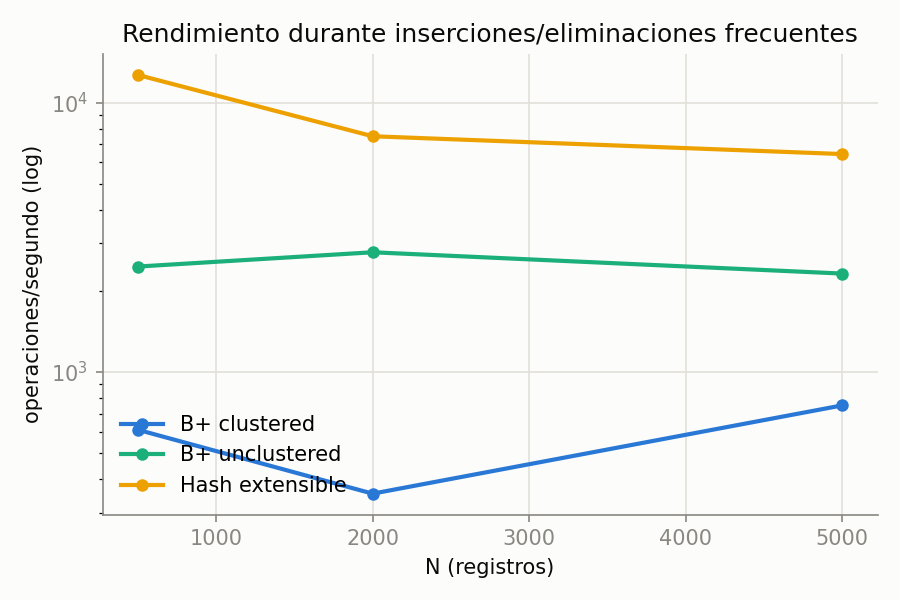
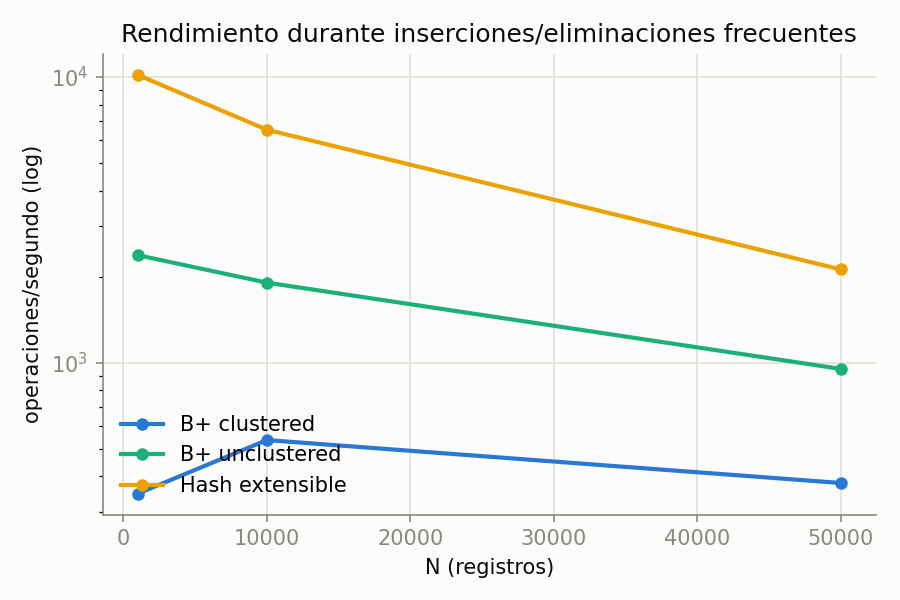
docs(benchmark): subir escala a 1k/10k/50k y actualizar resultados

diff --git a/benchmark/indices/index_benchmark.py b/benchmark/indices/index_benchmark.py
@@ -26,15 +26,13 @@ SAMPLE_SIZE = 30  # claves muestreadas para busqueda exacta / puntos de rango
 
 # Tamaños de N configurables por linea de comandos para pruebas rapidas,
 
-# El clustered escala ~O(N^2) con este SequentialFile: la pagina de
-# overflow tiene capacidad fija (no crece con N), asi que dispara un
-# reorganize() cada ~250 inserts SIEMPRE, y cada reorganize (mas el
-# reindex completo que hace BPlusTreeClustered para seguirlo) cuesta
-# O(N_actual). N=10_000 ya tarda minutos y N=100_000 tardaria horas 
-#  Por eso el default se mantiene chico; para numeros mas grandes correr 
-# a mano:
-# python -m benchmark.indices.index_benchmark 10000
-SIZES = [int(a) for a in sys.argv[1:]] or [500, 2_000, 5_000]
+# El SequentialFile escalaba ~O(N^2) (pagina de overflow de tamano fijo,
+# reorganize a intervalo constante) -- ya se arreglo (ver README, seccion
+# "Antes/despues"), asi que estos tamanos son factibles de correr en
+# minutos, no horas. N=50_000 tarda unos 5-8 minutos en total (la mayor
+# parte en construir el clustered). Para una corrida rapida de prueba:
+# python -m benchmark.indices.index_benchmark 500 2000
+SIZES = [int(a) for a in sys.argv[1:]] or [1_000, 10_000, 50_000]
 
 HASH_FILE_HEADER_SIZE = 16
 HASH_DEFAULT_BUCKET_SIZE = 16

diff --git a/benchmark/indices/README.md b/benchmark/indices/README.md
@@ -9,8 +9,8 @@ adicional y comportamiento bajo inserciones/eliminaciones frecuentes.
 **Cómo reproducirlo** (desde la raíz del repo):
 
 ```bash
-python -m benchmark.indices.index_benchmark          # tamaños por defecto: 500, 2000, 5000
-python -m benchmark.indices.index_benchmark 1000 3000 # tamaños custom
+python -m benchmark.indices.index_benchmark          # tamaños por defecto: 1000, 10000, 50000
+python -m benchmark.indices.index_benchmark 500 2000  # tamaños custom (corrida rapida)
 python -m benchmark.indices.plot_index_benchmark      # regenera las graficas desde el JSON
 ```
 
@@ -25,37 +25,47 @@ pide el enunciado.
 
 ### Construcción y espacio adicional
 
-| índice          |     N | construcción (ms) | ms/insert | datos (KB) | índice (KB) |
-| --------------- | ----: | ----------------: | --------: | ---------: | ----------: |
-| B+ clustered    |   500 |             598.7 |     1.198 |       12.0 |        20.0 |
-| B+ unclustered  |   500 |             175.4 |     0.351 |       20.0 |        20.0 |
-| Hash extensible |   500 |              41.7 |     0.083 |       20.0 |   **400.0** |
-| B+ clustered    | 2,000 |           3,083.4 |     1.542 |       40.0 |        68.0 |
-| B+ unclustered  | 2,000 |             807.5 |     0.404 |       56.0 |        68.0 |
-| Hash extensible | 2,000 |             196.3 |     0.098 |       56.0 | **1,440.0** |
-| B+ clustered    | 5,000 |           9,250.6 |     1.850 |       88.0 |       184.0 |
-| B+ unclustered  | 5,000 |           2,231.2 |     0.446 |      128.0 |       136.0 |
-| Hash extensible | 5,000 |             571.2 |     0.114 |      128.0 | **3,680.0** |
+| índice          |      N | construcción (ms) | ms/insert | datos (KB) | índice (KB) |
+| --------------- | -----: | -----------------: | --------: | ---------: | ----------: |
+| B+ clustered    |  1,000 |            1,503.4 |     1.503 |       24.0 |        36.0 |
+| B+ unclustered  |  1,000 |              408.7 |     0.409 |       32.0 |        36.0 |
+| Hash extensible |  1,000 |               87.8 |     0.088 |       32.0 |   **752.0** |
+| B+ clustered    | 10,000 |           19,500.7 |     1.950 |      172.0 |       372.0 |
+| B+ unclustered  | 10,000 |            4,556.9 |     0.456 |      252.0 |       276.0 |
+| Hash extensible | 10,000 |            1,451.4 |     0.145 |      252.0 | **7,456.0** |
+| B+ clustered    | 50,000 |           94,118.9 |     1.882 |      840.0 |     1,552.0 |
+| B+ unclustered  | 50,000 |           48,500.3 |     0.970 |    1,232.0 |     1,520.0 |
+| Hash extensible | 50,000 |           25,328.3 |     0.507 |    1,232.0 | **35,712.0** |
 
 > Números post-fix del `SequentialFile` (ver sección "Antes/después" más
 > abajo) — el clustered pasó de ~O(N²) a O(N) real en construcción/inserción.
+> Tamaños subidos de 500/2,000/5,000 a 1,000/10,000/50,000 una vez arreglado
+> el O(N²): a esta escala se nota mucho mejor la curva logarítmica del B+
+> frente al O(1) del hash (ver "Tiempo de consulta" abajo).
 
 ![Tiempo de construcción](construccion_ms.png)
 ![Espacio adicional](espacio_indice_kb.png)
 
 ### Tiempo de consulta
 
-| índice          |     N | µs/exacta |     µs/rango | ms/orden completo |
-| --------------- | ----: | --------: | -----------: | ----------------: |
-| B+ clustered    |   500 |      15.8 |         82.9 |              0.61 |
-| B+ unclustered  |   500 |     119.4 |        113.9 |              0.86 |
-| Hash extensible |   500 |      41.7 |  **1,506.2** |              1.46 |
-| B+ clustered    | 2,000 |      24.4 |        133.4 |              3.90 |
-| B+ unclustered  | 2,000 |      73.2 |         96.1 |              2.70 |
-| Hash extensible | 2,000 |      61.3 |  **6,011.0** |              6.65 |
-| B+ clustered    | 5,000 |      26.4 |        172.8 |              9.31 |
-| B+ unclustered  | 5,000 |     142.2 |        204.8 |              7.59 |
-| Hash extensible | 5,000 |      57.3 | **17,040.7** |             18.68 |
+| índice          |      N | µs/exacta |      µs/rango | ms/orden completo |
+| --------------- | -----: | --------: | ------------: | -----------------: |
+| B+ clustered    |  1,000 |      18.8 |         123.3 |               1.65 |
+| B+ unclustered  |  1,000 |     106.0 |          84.0 |               1.44 |
+| Hash extensible |  1,000 |      56.0 |   **3,312.2** |               3.72 |
+| B+ clustered    | 10,000 |      31.6 |         268.9 |              18.07 |
+| B+ unclustered  | 10,000 |     121.0 |         246.1 |              18.48 |
+| Hash extensible | 10,000 |      49.0 |  **31,496.8** |              34.37 |
+| B+ clustered    | 50,000 |      36.6 |         980.7 |             115.28 |
+| B+ unclustered  | 50,000 |     147.7 |       1,294.6 |             141.71 |
+| Hash extensible | 50,000 |      71.1 | **234,549.8** |             289.96 |
+
+Punto clave: aunque el B+ crece con N (log N) y el hash en teoría se
+mantiene O(1), a N=50,000 el hash (71.1µs) **sigue perdiendo** contra el
+clustered (36.6µs) en búsqueda exacta — ver la explicación en "Tabla
+resumen" y "Verificación de complejidad" más abajo (el hash tiene un costo
+fijo de 5 páginas por operación; el B+ con este fanout no llega a
+necesitar tantas ni siquiera a N=50,000).
 
 ![Búsqueda exacta](busqueda_exacta_us.png)
 ![Búsqueda por rango](busqueda_rango_us.png)
@@ -63,17 +73,17 @@ pide el enunciado.
 
 ### Rendimiento con inserciones/eliminaciones frecuentes (churn)
 
-| índice          |     N | churn ops |  ops/seg | µs/exacta post-churn |
-| --------------- | ----: | --------: | -------: | -------------------: |
-| B+ clustered    |   500 |       200 |    609.5 |                 20.0 |
-| B+ unclustered  |   500 |       200 |  2,461.8 |                 82.2 |
-| Hash extensible |   500 |       200 | 12,678.3 |                 42.0 |
-| B+ clustered    | 2,000 |       400 |    352.9 |                 25.3 |
-| B+ unclustered  | 2,000 |       400 |  2,781.7 |                101.3 |
-| Hash extensible | 2,000 |       400 |  7,503.6 |                 52.3 |
-| B+ clustered    | 5,000 |     1,000 |    750.9 |                 25.9 |
-| B+ unclustered  | 5,000 |     1,000 |  2,318.4 |                113.9 |
-| Hash extensible | 5,000 |     1,000 |  6,443.5 |                 67.1 |
+| índice          |      N | churn ops |  ops/seg | µs/exacta post-churn |
+| --------------- | -----: | --------: | -------: | -------------------: |
+| B+ clustered    |  1,000 |       200 |    347.8 |                 19.9 |
+| B+ unclustered  |  1,000 |       200 |  2,376.9 |                 95.5 |
+| Hash extensible |  1,000 |       200 | 10,162.0 |                 49.4 |
+| B+ clustered    | 10,000 |     2,000 |    535.7 |                 33.7 |
+| B+ unclustered  | 10,000 |     2,000 |  1,905.1 |                141.4 |
+| Hash extensible | 10,000 |     2,000 |  6,533.1 |                 77.2 |
+| B+ clustered    | 50,000 |     2,000 |    378.9 |                 72.1 |
+| B+ unclustered  | 50,000 |     2,000 |    950.3 |                150.8 |
+| Hash extensible | 50,000 |     2,000 |  2,118.2 |                108.6 |
 
 ![Throughput con churn](churn_ops_seg.png)
 ![Degradación post-churn](degradacion_post_churn_us.png)
@@ -82,9 +92,9 @@ pide el enunciado.
 
 | Técnica             | Fuerte en                                                                                              | Débil en                                                                                                                                                                                        | Usar cuando...                                                                                                                                             |
 | ------------------- | ------------------------------------------------------------------------------------------------------ | ----------------------------------------------------------------------------------------------------------------------------------------------------------------------------------------------- | ---------------------------------------------------------------------------------------------------------------------------------------------------------- |
-| **B+ clustered**    | Rango y orden más baratos (los datos ya están físicamente ordenados); búsqueda exacta rápida y estable; construcción O(N) tras el fix de `SequentialFile` (ver "Antes/después") | Sigue siendo el más caro en construcción/churn de los tres (aunque ya no cuadrático) — cada insert reordena físicamente el archivo | La tabla se lee mucho más de lo que se escribe, y las consultas son por rango/orden (ej. reportes, series de tiempo) sobre la clave primaria               |
-| **B+ unclustered**  | Balance razonable en todo; no sufre el costo de reorganización del clustered; soporta rango y orden    | Búsqueda exacta más lenta que el hash a estos tamaños (indirección extra hacia el heap)                                                                                                         | Índices secundarios sobre columnas que no son la clave física, o cuando hay muchas inserciones/eliminaciones y no se puede pagar el costo del clustered    |
-| **Hash extensible** | Construcción e inserción individual más rápidas de las tres; buen throughput bajo churn                | **No soporta rango ni orden** — sin eso cae a un scan completo del heap (de ~1.5ms a ~17.0ms según crece N); espacio del índice mucho mayor (pre-asigna buckets por capacidad, no por uso real) | Solo hay búsquedas por igualdad exacta (ej. lookup de un ID único) y nunca se necesita `WHERE col BETWEEN`, `ORDER BY` esa columna, ni recorrerla en orden |
+| **B+ clustered**    | Rango y orden más baratos (los datos ya están físicamente ordenados); búsqueda exacta la más rápida de las tres incluso contra el hash a estos N (ver "Tiempo de consulta"); construcción O(N) tras el fix de `SequentialFile` (ver "Antes/después") | Sigue siendo el más caro en construcción/churn de los tres (aunque ya no cuadrático) — cada insert reordena físicamente el archivo | La tabla se lee mucho más de lo que se escribe, y las consultas son por rango/orden (ej. reportes, series de tiempo) sobre la clave primaria               |
+| **B+ unclustered**  | Balance razonable en todo; no sufre el costo de reorganización del clustered; soporta rango y orden    | Búsqueda exacta la más lenta de las tres a estos tamaños (indirección extra hacia el heap: primero el índice, después el `HeapFile`)                                                                                                         | Índices secundarios sobre columnas que no son la clave física, o cuando hay muchas inserciones/eliminaciones y no se puede pagar el costo del clustered    |
+| **Hash extensible** | Construcción e inserción individual más rápidas de las tres; buen throughput bajo churn                | **No soporta rango ni orden** — sin eso cae a un scan completo del heap (de ~56µs a ~234ms según crece N); espacio del índice mucho mayor (pre-asigna buckets por capacidad, no por uso real); búsqueda exacta pierde contra el B+ clustered incluso a N=50,000 (costo fijo de 5 páginas por operación, ver "Verificación de complejidad") | Solo hay búsquedas por igualdad exacta (ej. lookup de un ID único) y nunca se necesita `WHERE col BETWEEN`, `ORDER BY` esa columna, ni recorrerla en orden |
 
 ## Verificación de complejidad (páginas leídas por operación)
 
@@ -105,6 +115,15 @@ de complejidad que no depende de qué tan rápida esté la máquina:
 Ambos corren solos con `run_all_tests.py` (viven en `tests/`, a diferencia
 del benchmark de arriba).
 
+**Por qué el hash pierde en búsqueda exacta contra el B+ pese a ser O(1):**
+las 5 páginas del hash son un costo *fijo*, no cero. El B+ con este fanout
+(~8 hijos por nodo interno) necesita 1-3 páginas hasta N=100,000 — menos
+que 5. El hash recién le ganaría al B+ cuando la altura del árbol supere
+las 5 páginas, algo que con este fanout no pasa ni remotamente cerca de
+los tamaños que se pueden probar en un benchmark razonable. Es un caso
+real de "la constante importa más que el Big-O dentro del rango que
+realmente se mide".
+
 ## Antes/después: el fix de `SequentialFile` (rama `seqfile-reorganize-fix`)
 
 El punto #1 de limitaciones más abajo (el O(N²) del clustered) **ya se
@@ -122,13 +141,20 @@ del "antes". Medido con `SequentialFile` solo (sin el árbol B+ encima),
 se mantiene prácticamente plano en el mismo rango (0.35→0.41ms) y sigue
 plano hasta N=100,000 — O(N) real, no O(N²). El punto de 100,000 para
 "antes" no se corrió literalmente (tomaría horas); es la extrapolación de
-la curva cuadrática medida en los otros dos puntos, marcada como tal. Con
-el índice clustered encima (que es lo que muestran las tablas de este
-documento), construcción a N=5,000:
+la curva cuadrática medida en los otros dos puntos, marcada como tal.
 
-| | antes | después | mejora |
+Con el índice clustered encima, esta es la comparación en los dos tamaños
+donde sí se corrió el código viejo completo (antes de subir la escala del
+benchmark oficial a 1,000/10,000/50,000):
+
+| N | antes (medido) | después (medido) | mejora |
+| --: | --: | --: | --: |
+| 500 | 693.4 ms | 598.7 ms | 1.2x |
+| 5,000 | 23,749.7 ms | 9,250.6 ms | 2.6x |
+| 50,000 | ~40 min (extrapolado del O(N²) medido) | 94,118.9 ms (**1.6 min**, medido) | ~25x |
+
+| | antes (N=5,000) | después (N=5,000) | mejora |
 | --- | --: | --: | --: |
-| tiempo de construcción | 23,749.7 ms | 9,250.6 ms | 2.6x |
 | throughput bajo churn (ops/seg) | 143.5 | 750.9 | 5.2x |
 
 **Qué cambió, en dos partes:**
@@ -197,5 +223,5 @@ Una hash table no mantiene ningún orden entre claves, es esperable, no un
 defecto de la implementación. `HashIndexAdapter` (en el benchmark) resuelve
 `range_search`/orden con un scan completo del `HeapFile` subyacente porque
 es la única forma correcta de responderlos sin un índice ordenado. El costo
-medido (~1.5ms → ~17.0ms de N=500 a N=5,000) es el precio real de intentar
-usar un hash para algo que no es su caso de uso.
+medido (~56µs → ~234.5ms de N=1,000 a N=50,000) es el precio real de
+intentar usar un hash para algo que no es su caso de uso.
